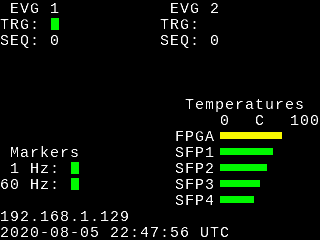
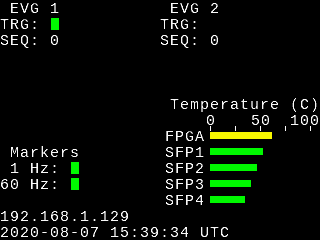
Track display changes.

diff --git a/documentation/Hardware.html b/documentation/Hardware.html
@@ -90,8 +90,8 @@ Ethernet MAC address and IPv4 address are set to default values
 <li>The top few lines of the display show the status of the event 
 sequence pattern generators.&nbsp; The green indicator to the right of 
 the 'TRG:' text blinks when an event sequence is triggered.&nbsp; The
- value to the right of the 'SEQ:' text shows the pattern number (0/1) 
-currently or previously emitted.<br>
+ value to the right of the 'SEQ:' text shows the number (0/1) 
+of the currently or previously active sequence.<br>
 </li><li>The 'Markers' region at the lower left side of the display shows the status of the timing marker inputs.<br>
       </li><li>The 'Temperatures' region shows a bar indicator of the 
 temperature of various components.&nbsp; SFP1 and 2 are the ones 
